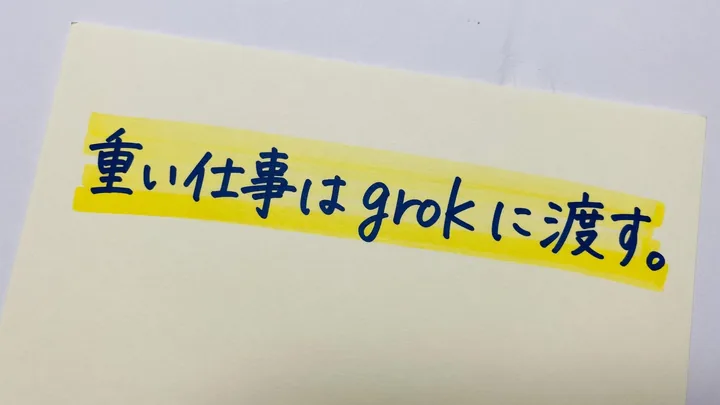
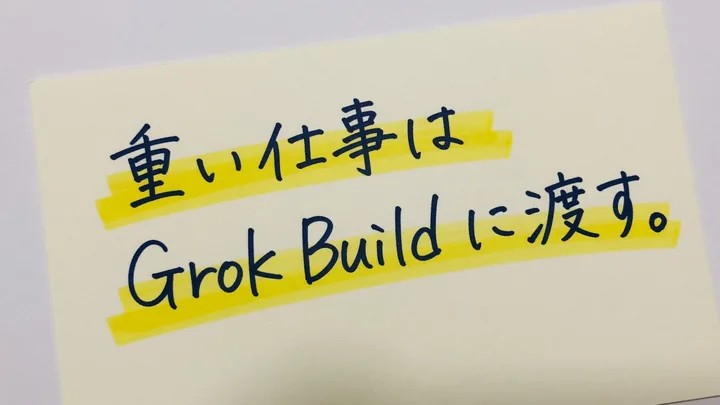
Call the product Grok Build in the Bot-and-Build TIPS title

Changed region(s): [[0.0917, 0.237, 0.9472, 0.8593], [0.9167, 0.7407, 1.0, 1.0], [0.6722, 0.0889, 0.7333, 0.2074]]

diff --git a/src/content/tips/bot-build-chat-map.md b/src/content/tips/bot-build-chat-map.md
@@ -58,7 +58,7 @@ FAQ は、Grok Bot を grok.com のチャットや公式アプリとは別物だ
 やらないこと: ○○（例: 文体を変えない。英語で答えない）
 ```
 
-対象のプランは、公式の中で書き方が揃っていません。2026-08-26 のニュースは SuperGrok と Cursor Pro を含めています。2026-09-12 の <a href="https://x.ai/pricing" rel="external">x.ai/pricing</a> の SuperGrok（$30）にも Grok Bot access とあります。同じ日の導入ページは Plus、Heavy と、Cursor の Pro+ 以上だけです。Cursor の個人向け Pro は月 $20 で Grok Bot access とあります。**自分のプランで使えるかは、契約する画面で確かめてください。** Bot の使用量は、Grok や Cursor で使える量とは別に数えます。grok.com のチャットや Imagine の使える量は増えません（<a href="/tips/free-vs-supergrok/">やりたいことで払う場所が決まる</a>）。重い調査や Imagine は、Bot の会話でやらずに grok へ渡す書き方もあります（<a href="/tips/bot-uses-build/">重い仕事は grok に渡す</a>）。
+対象のプランは、公式の中で書き方が揃っていません。2026-08-26 のニュースは SuperGrok と Cursor Pro を含めています。2026-09-12 の <a href="https://x.ai/pricing" rel="external">x.ai/pricing</a> の SuperGrok（$30）にも Grok Bot access とあります。同じ日の導入ページは Plus、Heavy と、Cursor の Pro+ 以上だけです。Cursor の個人向け Pro は月 $20 で Grok Bot access とあります。**自分のプランで使えるかは、契約する画面で確かめてください。** Bot の使用量は、Grok や Cursor で使える量とは別に数えます。grok.com のチャットや Imagine の使える量は増えません（<a href="/tips/free-vs-supergrok/">やりたいことで払う場所が決まる</a>）。重い調査や Imagine は、Bot の会話でやらずに Grok Build へ渡す書き方もあります（<a href="/tips/bot-uses-build/">重い仕事は Grok Build に渡す</a>）。
 
 Bot 用のプロンプトは、<a href="https://grokguide.jp" rel="external">grokguide.jp</a> にたくさんまとまっています。このサイトでは Bot のプロンプト集は作りません。作り方の形と、日本語で使うときの注意だけを書いています。
 

diff --git a/src/content/tips/bot-uses-build.md b/src/content/tips/bot-uses-build.md
@@ -1,6 +1,6 @@
 ---
-title: Grok Bot に全部やらせない。重い仕事は grok に渡す
-description: SuperGrok の人向けです。とくに Heavy。Bot に調査も絵も全部頼むと会話の残りがすぐ減るので、コンピュータの grok に渡してください。出てきたものは読んでから使います。
+title: Grok Bot に全部やらせない。重い仕事は Grok Build に渡す
+description: SuperGrok の人向けです。とくに Heavy。Bot に調査も絵も全部頼むと会話の残りがすぐ減るので、コンピュータの Grok Build に渡してください。出てきたものは読んでから使います。
 order: 8
 product: bot
 last_verified: "2026-09-12"
@@ -16,8 +16,8 @@ related:
   - free-vs-supergrok
   - imagine-quickstart
 image: /tips/bot-uses-build.jpg
-image_alt: 紙に「重い仕事は grok に渡す。」と大きく書いてある
-image_caption: 調査も Imagine も、Bot のコンピュータに入れた grok に渡します。出てきたものは、そのまま使いません。
+image_alt: 紙に「重い仕事は Grok Build に渡す。」と大きく書いてある
+image_caption: 調査も Imagine も、Bot のコンピュータに入れた Grok Build に渡します。出てきたものは、そのまま使いません。
 ---
 
 ## 困ること
@@ -30,7 +30,7 @@ Grok Bot に長い調査を頼むと、会話が長くなります。Imagine で
 
 ## 何を分けるか
 
-Bot には「やってください」「これを通していいですか」だけ頼みます。調べること、絵を出すこと、ファイルを触ることは、Bot のコンピュータに入れた grok にやらせます。
+Bot には「やってください」「これを通していいですか」だけ頼みます。調べること、絵を出すこと、ファイルを触ることは、Bot のコンピュータに入れた Grok Build にやらせます。コマンドは grok です。
 
 公式が「そう使え」と書いてあるわけではありません。書いてあるのは、Bot のコンピュータにターミナルがあることと、grok の入れ方です。
 
